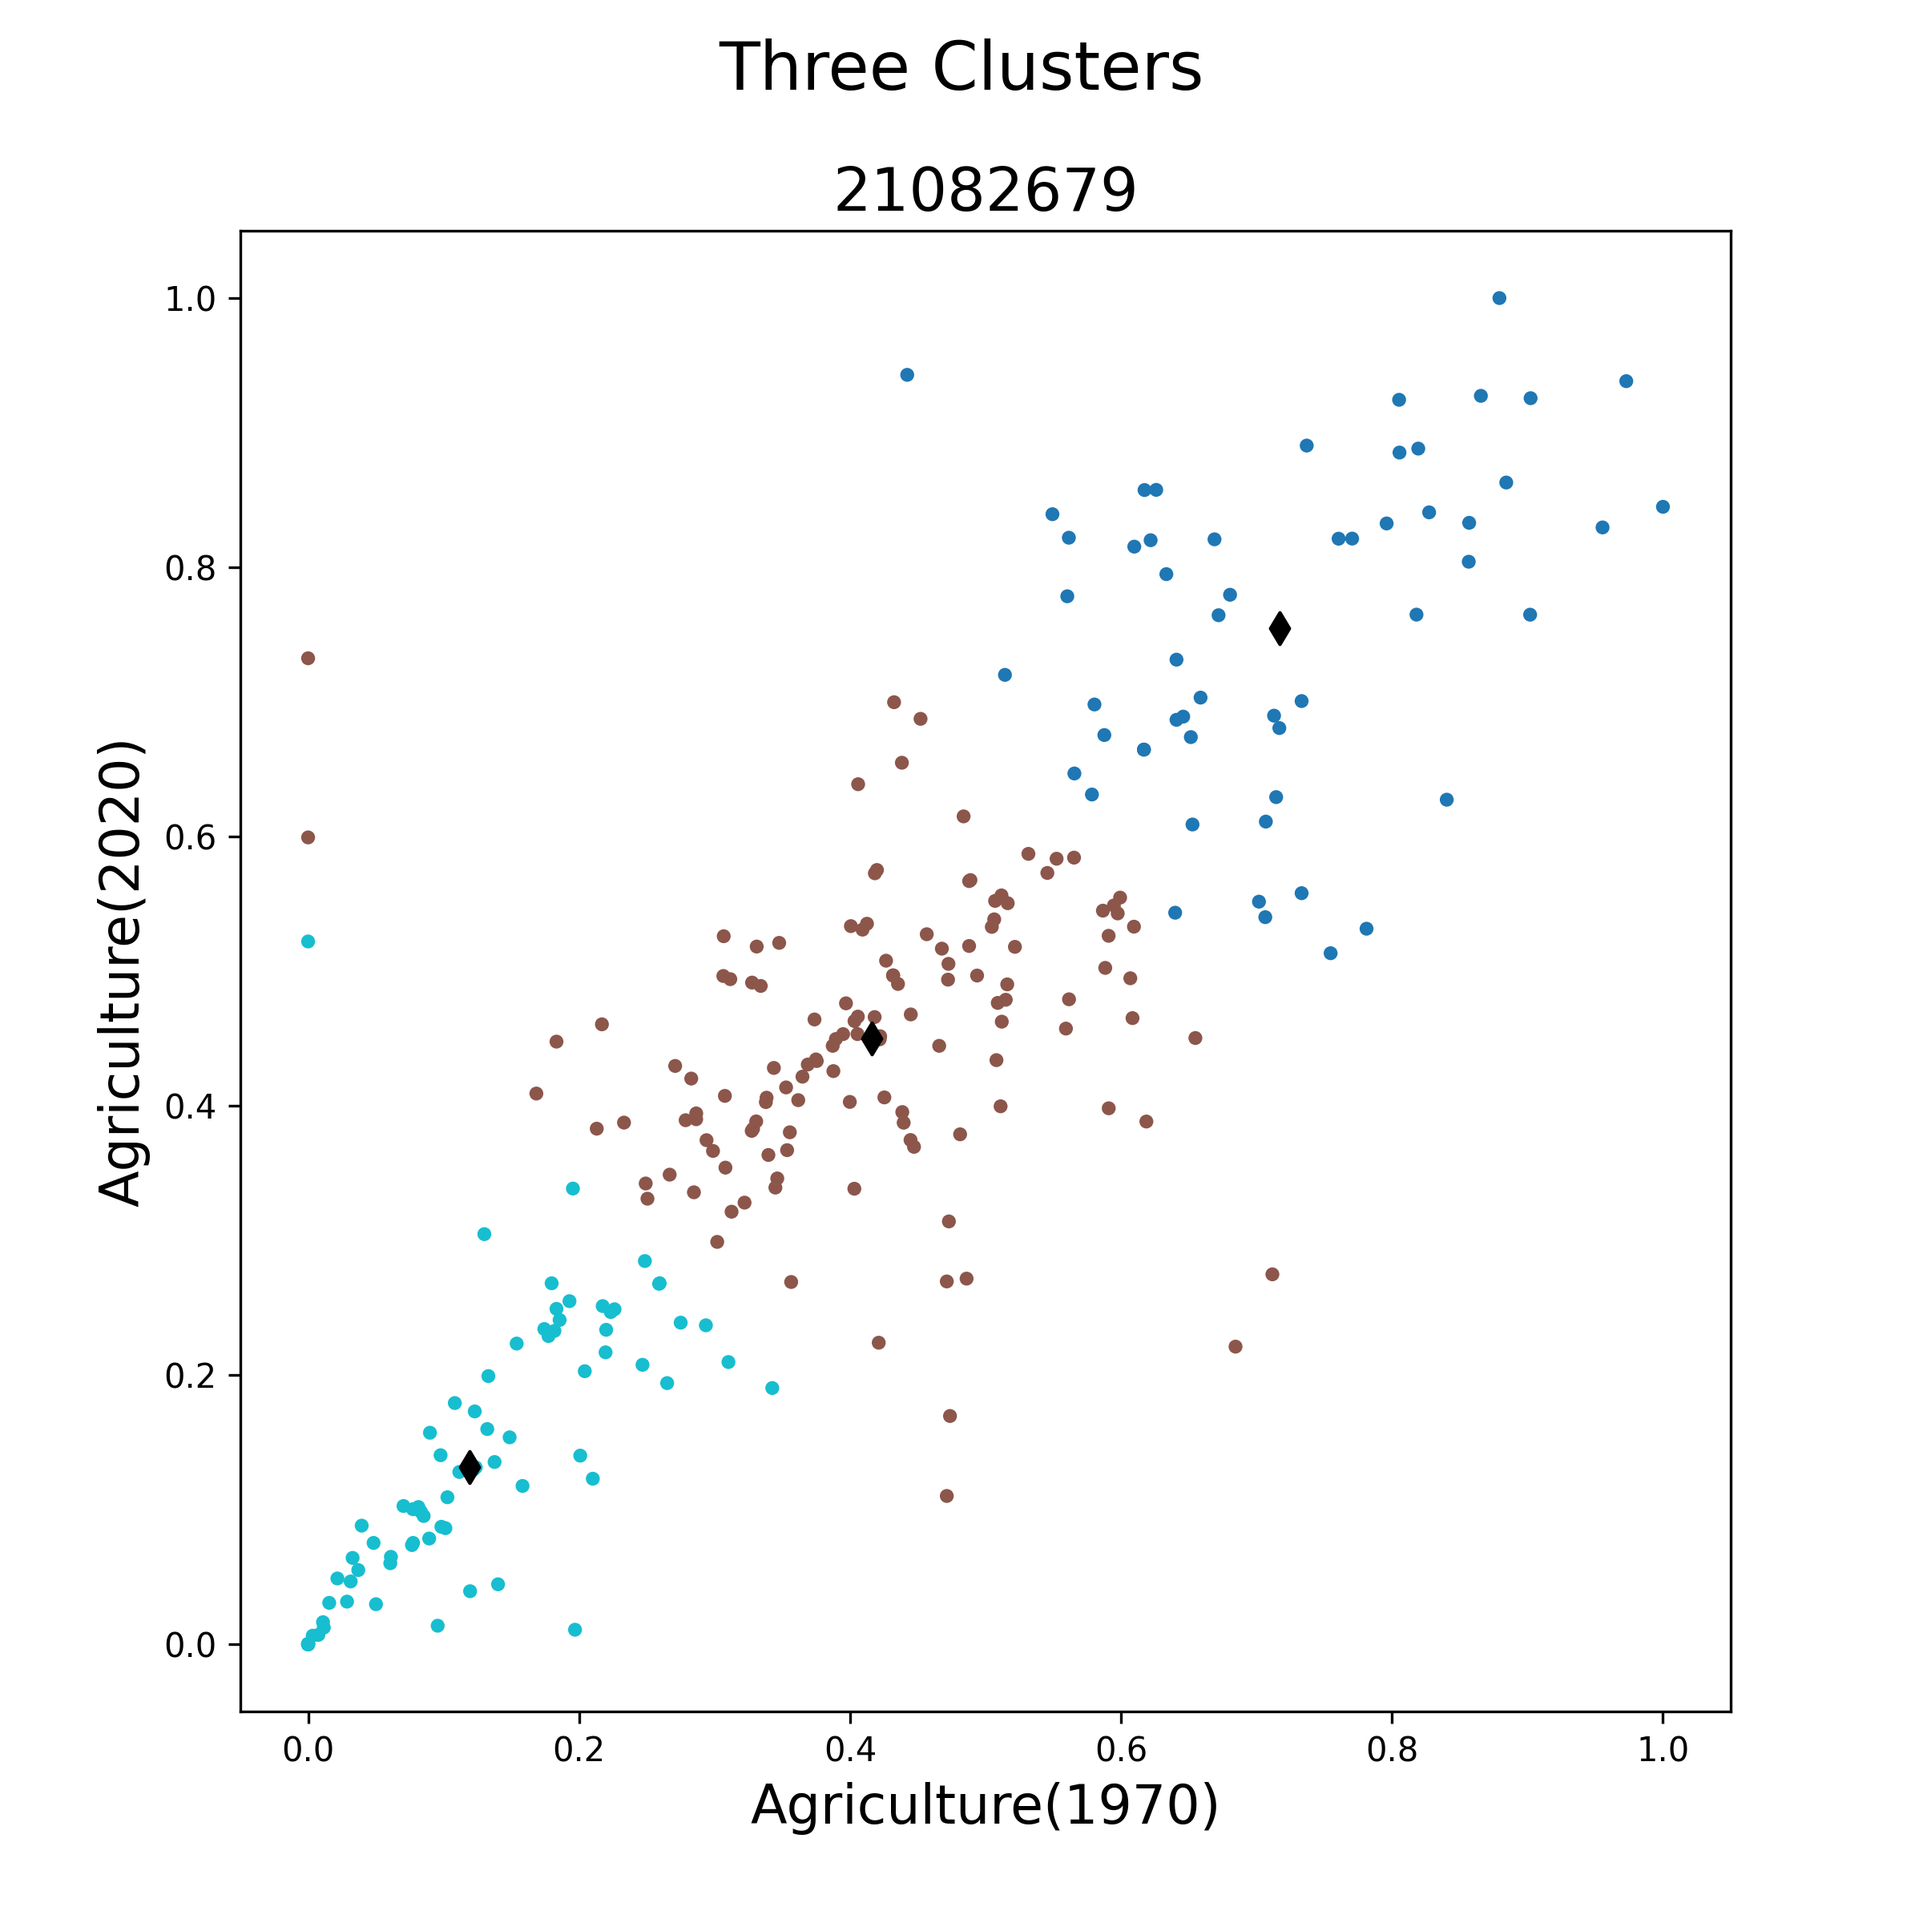
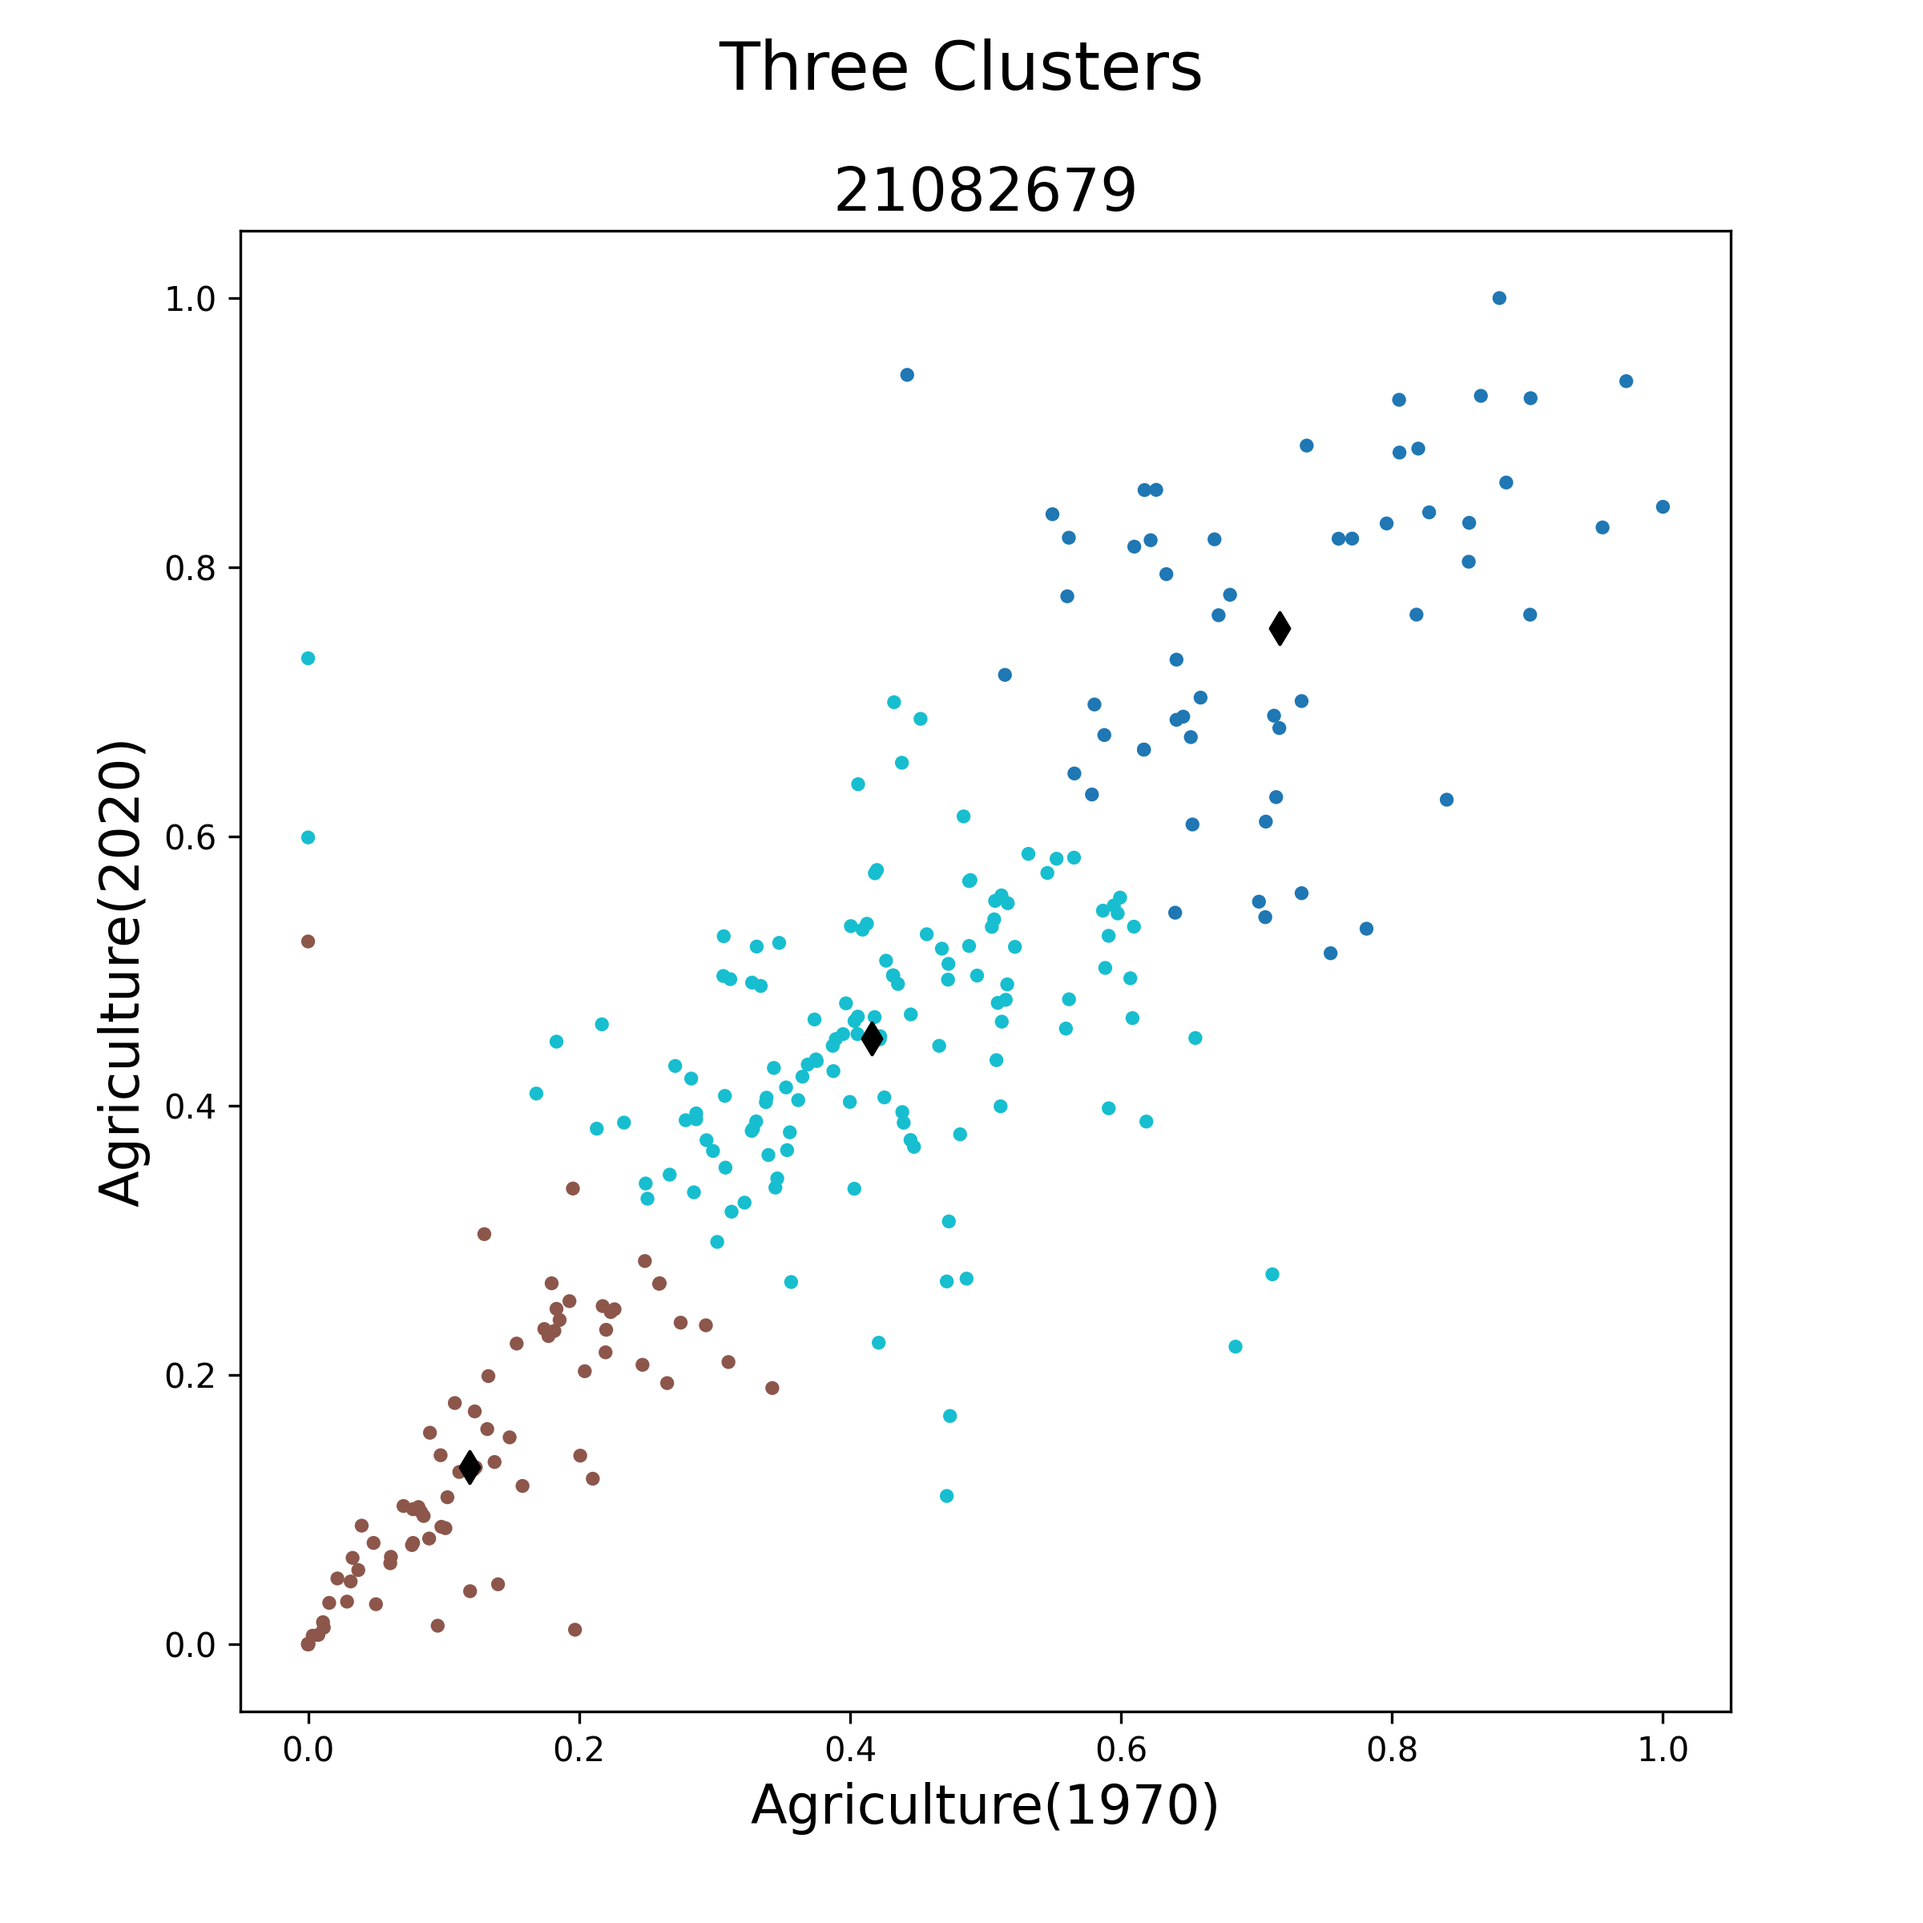
code refactoring - remove unnecssary code

diff --git a/21082679.py b/21082679.py
@@ -12,140 +12,90 @@ A standard statistical test for a time series' stationarity, the Augmented Dicke
 root test, is carried out using this function."""
 
 # seasonal_decompose() is used for time series decomposition
-
 from statsmodels.tsa.seasonal import seasonal_decompose
 
 # Import custom module
-
 import cluster_tools as ct
 
 # Setting the specific columns
-
 columnsName = ["DATE", "value"]
 
 # Set the option to display all columns
-
 pd.set_option('display.max_columns', None)
 
 # Read in the "Electric_Production.csv" file as a pandas dataframe and setting the specific columns
-
-df = pd.read_csv("Electric_Production.csv", names=columnsName, header=0, parse_dates=[0])
+electric_production_df = pd.read_csv("Electric_Production.csv", names=columnsName, header=0, parse_dates=[0])
 
 # storing in the array
-
-array = df.to_numpy()
+array = electric_production_df.to_numpy()
 
 # Transpose of dataset
-
 transposed_data = array.T
 
 # print Transpose
-
 print(transposed_data)
 
 # Display the first 5 rows of the DataFrame
-
-df.head()
+electric_production_df.head()
 
 # This code displays the last five rows of a DataFrame
-
-df.tail()
+electric_production_df.tail()
 
 # This code generates descriptive statistics of a Dataframe
-
-df.describe()
+electric_production_df.describe()
 
 # filling the null values if there is some null values
-
-df = df.fillna(0)
+electric_production_df = electric_production_df.fillna(0)
 
 # Checking the info for further details to check the null or non-null values
-
-df.info()
+electric_production_df.info()
 
 # Again verifying the dataset to check the dataset
-
-df.head()
+electric_production_df.head()
 
 # Setting the date format to Year-Month-Day
-
-df['DATE'] = pd.to_datetime(df['DATE'], infer_datetime_format=True)
+electric_production_df['DATE'] = pd.to_datetime(electric_production_df['DATE'], infer_datetime_format=True)
 
 # Setting the date as an index
-
-df = df.set_index(['DATE'])
+electric_production_df = electric_production_df.set_index(['DATE'])
 
 # Verifying the dataset
-
-df.head()
+electric_production_df.head()
 
 # Calculate the rolling mean and rolling std according to months
-
-rolling_mean = df.rolling(window=12).mean()
-rolling_std = df.rolling(window=12).std()
+rolling_mean = electric_production_df.rolling(window=12).mean()
+rolling_std = electric_production_df.rolling(window=12).std()
 
 # Plotting the rolling mean and std
-
 # Setting the figuresize
-
 plt.figure(figsize=(12, 8), dpi=300)
 
 # displaying the plot
-
-plt.plot(df, label='Original')
+plt.plot(electric_production_df, label='Original')
 plt.plot(rolling_mean, label='Rolling Mean')
 plt.plot(rolling_std, label='Rolling Std')
 
 # Setting the x label and y label
-
 plt.xlabel('Date', size=12)
 plt.ylabel('Electric Production', size=12)
 
 # Setting the legend at the upper left position
-
 plt.legend(loc='upper left')
 
 # setting the super title and title
-
 plt.suptitle('Rolling Statistics', size=14)
 plt.title("21082679")
 
 # Saving the plot
-
 plt.savefig("RollingOutput.png")
 
 # displaying the plot
-
-plt.show()
-
-# Setting the figuresize
-
-plt.figure(figsize=(12, 8))
-
-# displaying the plot
-
-plt.plot(df['value'])
-
-# Setting the x label and y label
-
-plt.xlabel("Dates")
-plt.ylabel("Electrical Production")
-
-# setting the super title and title
-
-plt.suptitle("Electrical Production TimeSeries")
-plt.title("21082679")
-
-# displaying the plot
-
 plt.show()
 
 # Use the augmented Dickey-Fuller test to check for stationarity
-
-adful = adfuller(df, autolag="AIC")
+adful = adfuller(electric_production_df, autolag="AIC")
 
 # Create a DataFrame with ADF test results
-
 output_df = pd.DataFrame({
     "Values": [adful[0], adful[1], adful[2], adful[3], adful[4]['1%'], adful[4]['5%'], adful[4]['10%']],
     "Metric": ["Test Statistics", "p-value", "No. of lags used", "Number of observations used",
@@ -153,40 +103,31 @@ output_df = pd.DataFrame({
 })
 
 # Print the DataFrame
-
 print(output_df)
 
 # Calculate autocorrelation at lag 1
-
-autocor_lag1 = df['value'].autocorr(lag=1)
+autocor_lag1 = electric_production_df['value'].autocorr(lag=1)
 
 # Print the result
-
 print("One Month Lag: ", autocor_lag1)
 
 # Calculate autocorrelation for lags of 3, 6, and 9 months
-
-autocorr_lag3 = df['value'].autocorr(lag=3)
-autocorr_lag6 = df['value'].autocorr(lag=6)
-autocorr_lag9 = df['value'].autocorr(lag=9)
+autocorr_lag3 = electric_production_df['value'].autocorr(lag=3)
+autocorr_lag6 = electric_production_df['value'].autocorr(lag=6)
+autocorr_lag9 = electric_production_df['value'].autocorr(lag=9)
 
 # Print the results
-
 print("Three Month Lag:", autocorr_lag3)
 print("Nine Month Lag:", autocorr_lag9)
 
 # Perform seasonal decomposition of time series data to calculate the useful insights
-
-decompose = seasonal_decompose(df['value'], model='additive', period=7)
+decompose = seasonal_decompose(electric_production_df['value'], model='additive', period=7)
 
 # Plot decomposition
-
 decompose.plot()
 
 # Saving and showing the figure
-
 plt.savefig("21082679-Saud.png", dpi=300)
-
 plt.show()
 
 # Read the dataset from a CSV file
@@ -194,37 +135,17 @@ data = pd.read_csv("agridataset.csv")
 
 """On a Pandas DataFrame with the identifier "data," this code is invoking the "head()" function.
 The 'head()' function, where n is by default 5, retrieves the DataFrame's top n rows.
-The console is then output with the resulting DataFrame.
-."""
-
-data.head()
+The console is then output with the resulting DataFrame."""
 
 # filling the null values which can disturb the outcomes
-
 data = data.fillna(0)
 
 # Selecting columns from dataframe
-
 sec_data = data[['1970', '1980', '2010', '2020']]
 
 corr = sec_data.corr()
 
 print(corr)
-
-ct.map_corr(sec_data)
-# Saving the plot and showing plot
-
-plt.savefig("heatmap.png")
-
-plt.show()
-
-# Plot a scatter matrix of sec_data
-
-pd.plotting.scatter_matrix(sec_data, figsize=(12, 12), s=5, alpha=0.8)
-
-# Save the scatter matrix plot as an image file
-
-plt.savefig("Matrix.png", dpi=300)
 
 # Display the scatter matrix plot
 plt.show()
@@ -250,10 +171,6 @@ print(df_ex.iloc[0:15])
 # Scale the dataframe
 df_norm, df_min, df_max = ct.scaler(df_ex)
 
-print()
-
-print('n  value')
-
 for ncluster in range(2, 10):
     # set up the  cluster with the number of expected clusters
     kmeans = cluster.KMeans(n_clusters=ncluster)
@@ -274,35 +191,22 @@ kmeans.fit(df_norm)
 labels = kmeans.labels_
 cen = kmeans.cluster_centers_
 
-# Extract x and y coordinates of cluster centers
+# # Extract x and y coordinates of cluster centers
 cen = np.array(cen)
-xcen = cen[:, 0]
-ycen = cen[:, 1]
 
-# Create scatter plot with labeled points and cluster centers
-plt.figure(figsize=(8.0, 8.0))
-cm = plt.cm.get_cmap('tab10')
-plt.scatter(df_norm['1970'], df_norm['2020'], 10, labels, marker='o', cmap=cm)
-plt.scatter(xcen, ycen, 45, 'k', marker='d')
-plt.suptitle("Three Clusters", size=20)
-plt.title("21082679", size=18)
-plt.xlabel("Agriculture(1970)", size=16)
-plt.ylabel("Agriculture(2020)", size=16)
-plt.savefig("Three Clusters.png", dpi=300)
-plt.show()
-
-print(cen)
 # Applying the backscale function to convert the cluster centre
 scen = ct.backscale(cen, df_min, df_max)
-print()
 print(scen)
+
 xcen = scen[:, 0]
 ycen = scen[:, 1]
+
 # cluster by cluster
 plt.figure(figsize=(8.0, 8.0))
 cm = plt.cm.get_cmap('tab10')
 plt.scatter(df_ex["1970"], df_ex["2020"], 10, labels, marker="o", cmap=cm)
 plt.scatter(xcen, ycen, 45, "k", marker="d")
+
 plt.suptitle("Three Centered Clusters", size=20)
 plt.title("21082679", size=18)
 plt.xlabel("Agriculture(1970)", size=16)

diff --git a/cluster_tools.py b/cluster_tools.py
@@ -1,7 +1,6 @@
 """ Tools to support clustering: correlation heatmap, normaliser and scale 
 (cluster centres) back to original scale, check for mismatching entries """
 
-
 def map_corr(df, size=6):
     """Function creates heatmap of correlation matrix for each pair of 
     columns in the dataframe.
@@ -26,8 +25,7 @@ def map_corr(df, size=6):
 
     plt.colorbar()
     # no plt.show() at the end
-    
-    
+
 def scaler(df):
     """ Expects a dataframe and normalises all 
         columnsto the 0-1 range. It also returns 
@@ -41,7 +39,6 @@ def scaler(df):
     df = (df-df_min) / (df_max - df_min)
 
     return df, df_min, df_max
-
 
 def backscale(arr, df_min, df_max):
     """ Expects an array of normalised cluster centres and scales
